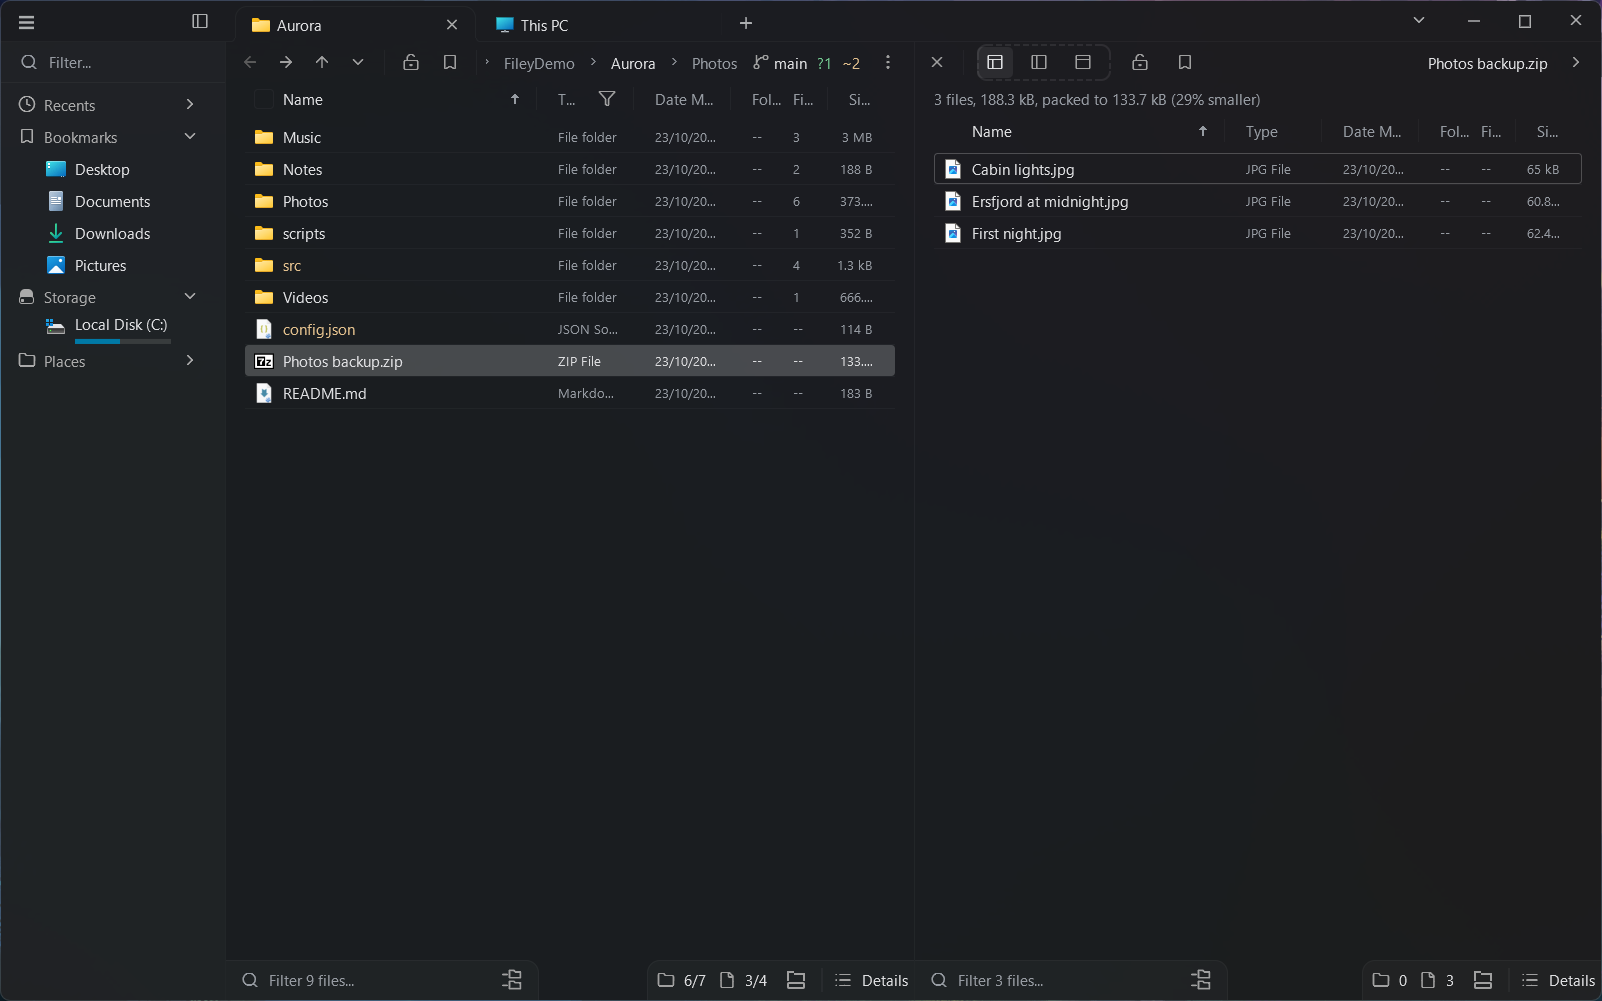
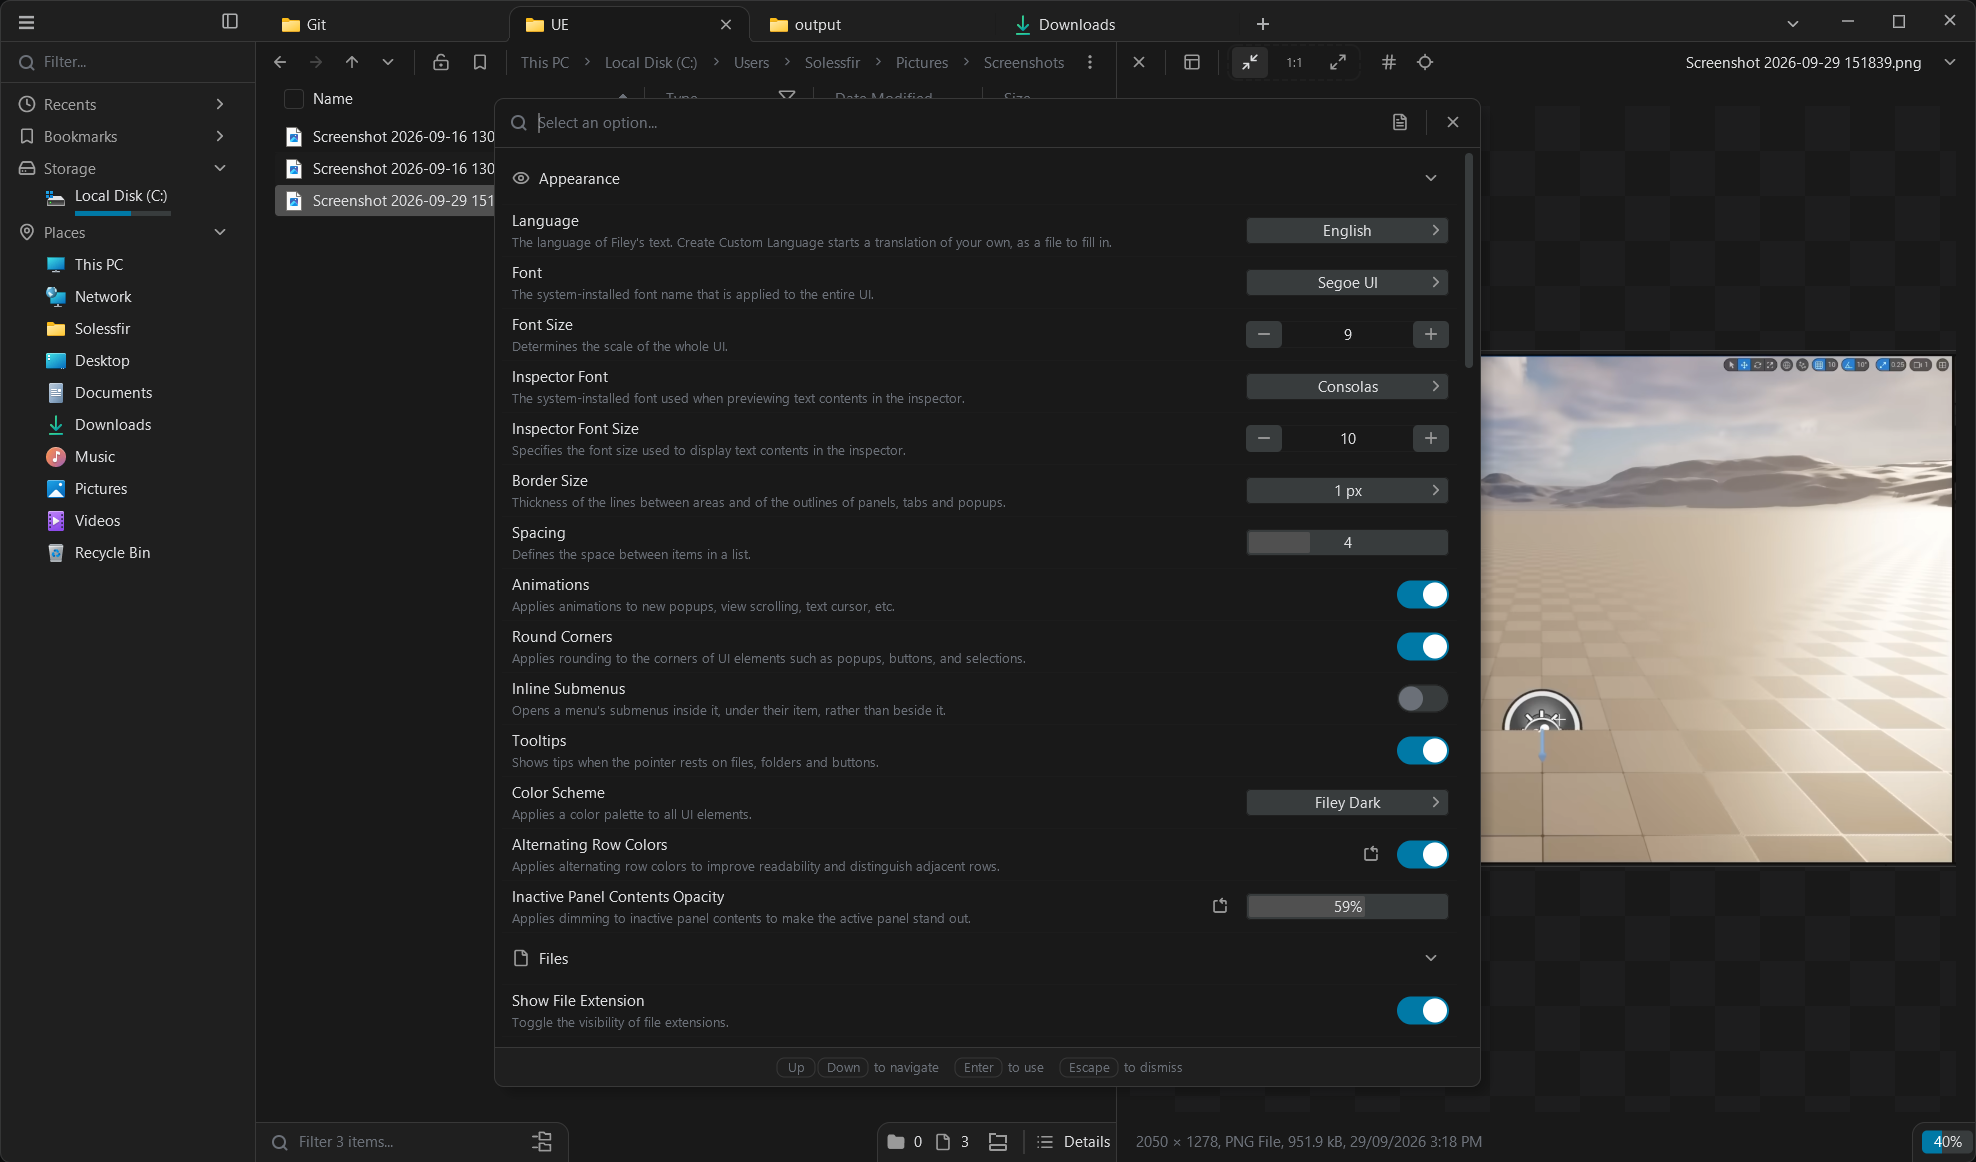
The README's screenshot shows the Options over a picture in the inspector

diff --git a/README.md b/README.md
@@ -7,7 +7,7 @@
 > If you care about hand-crafted software, use File Pilot instead, or better, buy it.
 > Developers like Vjekoslav Krajačić, who build amazing apps like it by hand, deserve our support.
 
-![Filey with two panels: a git repository on the left and an archive listed in the inspector on the right](.github/Screenshot.png)
+![Filey with the Options open over a folder of screenshots, one of them previewed in the inspector](.github/Screenshot.png)
 
 ## Features
 
